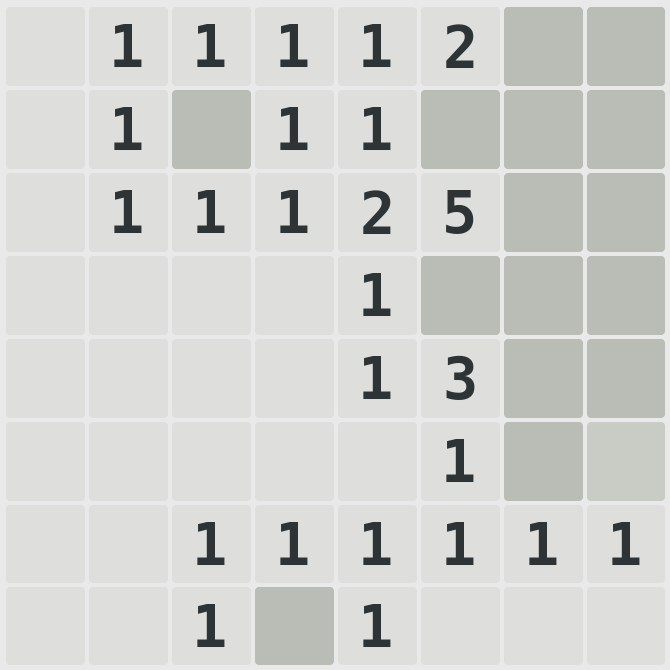
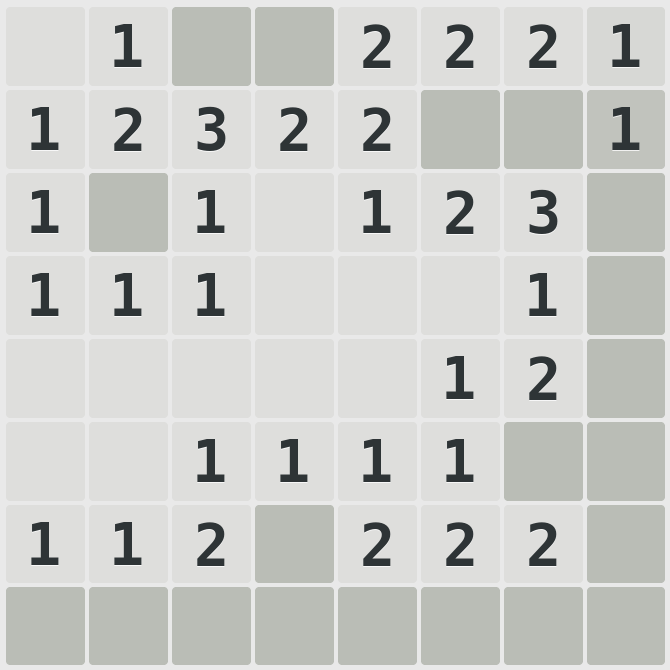
dont"t forget this click(j,i)

diff --git a/mines/solver.py b/mines/solver.py
@@ -1,5 +1,5 @@
 #!/usr/bin/python
-import os, time
+import os, time, random
 import giveDimensions
 import findNumbers, findUnOpened, findImage
 print "Instructions: "
@@ -163,16 +163,19 @@ def getInputOfBlocks():
 	print board
 
 def click(i,j):
-	time.sleep(0.1)
+	time.sleep(0.15)
 	os.system("xdotool mousemove {0} {1} click 1".format(locations[i][j][0], locations[i][j][1]))
 	print "clicking {0} {1}".format(locations[i][j][0], locations[i][j][1])
 	return
 
 def clickRandom(board_length=8):
+	i,j = random.choice(positions['-1'])
+	click(j,i)
+	return
 	for i in xrange(0,board_length):
 		for j in xrange(0,board_length):
 			if board[i][j] == -1:
-				click(i,j)
+				click(j,i)
 				return
 
 def clickOnSafeFlags(board_length):
@@ -223,3 +226,7 @@ while TOTAL_MINES_REMAINING != 0:
 				clickRandom()
 			break
 print 'Game ended, all flags found'
+for i in xrange(0,8):
+	for j in xrange(0,8):
+		if board[i][j] == -100:
+			click(j,i)
